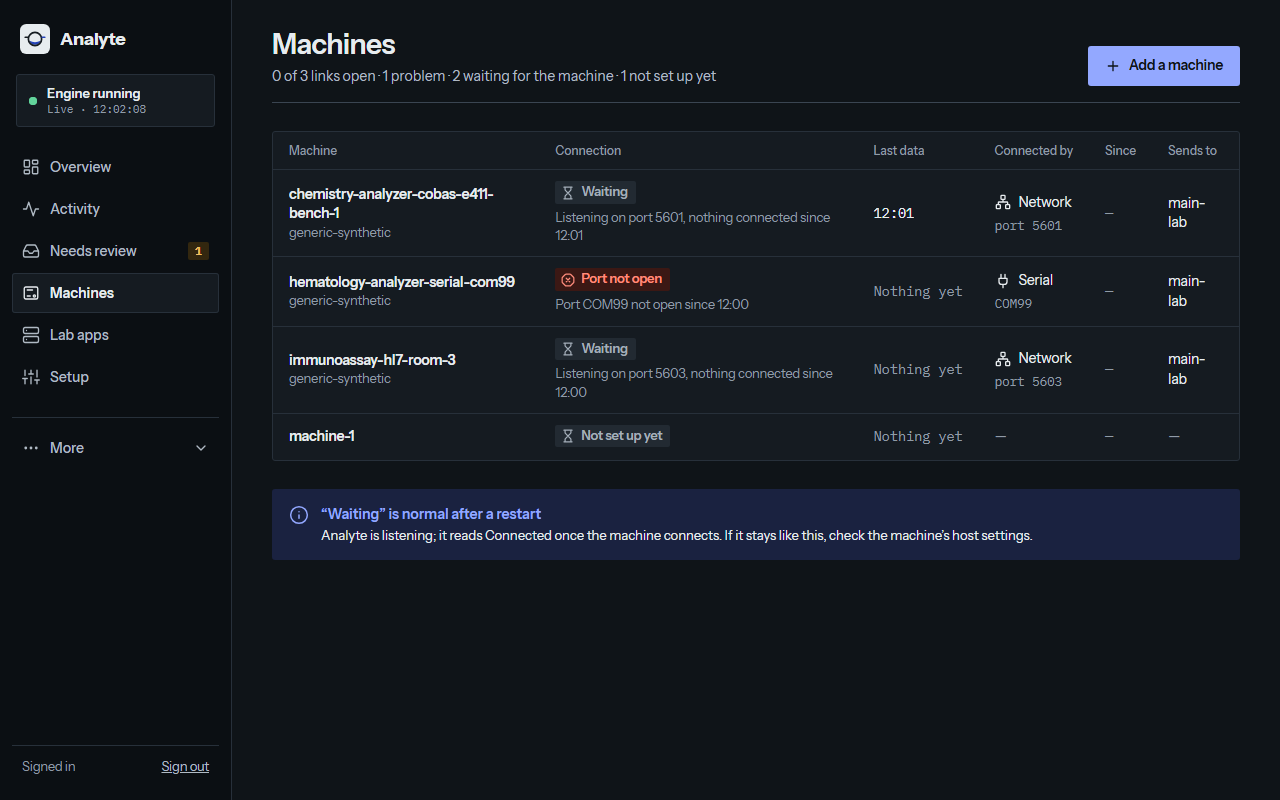
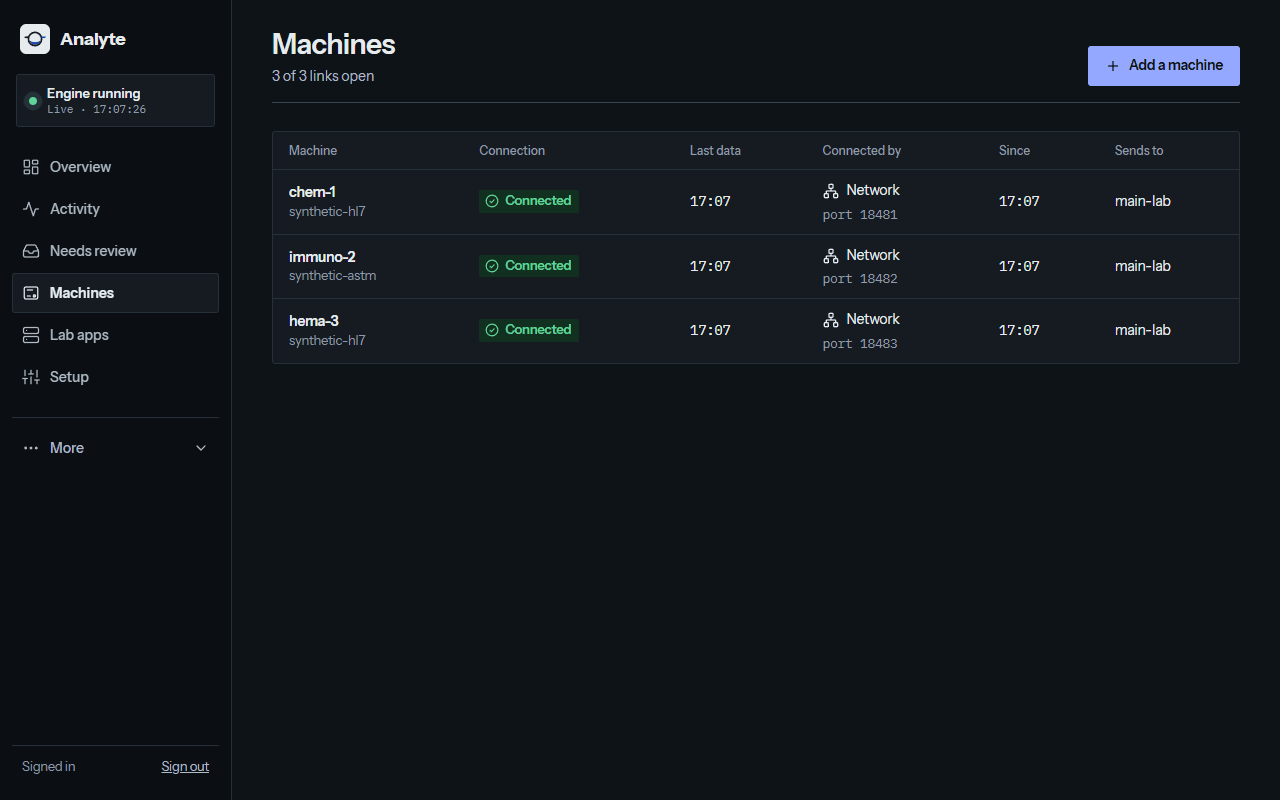
docs: shorten the README, add a demo GIF and healthy screenshots
The README goes from 299 to 180 lines. A 17-second GIF near the top shows
a synthetic result going from a machine through Analyte to the lab app,
then an unknown test code parked on Needs review. The six screenshots are
retaken with the reference receiver as the lab app, so results are
delivered and the Overview is green; the Deliveries page replaces the app
window picture.

Detail now lives in one place: the pre-change checks link to AGENTS.md,
the repository map to crates/README.md, and install steps to the
packaging guides. The tech stack now names all three unsafe Windows
modules (ADRs 0017, 0021 and 0022).

diff --git a/README.md b/README.md
@@ -4,44 +4,41 @@
 
 **Connect any lab analyzer to any lab app.**
 
-Analyte is a small program that runs on a PC in the lab, next to the
-analyzers. It talks to each machine in that machine's own protocol, stores
-every message safely, and passes results to a lab app over HTTPS in one common
-format. It also takes work orders from the lab app and hands them to the
-machines that ask for them or need them sent ahead.
+Analyte runs on a PC in the lab, next to the analyzers. It talks to each
+machine in that machine's own protocol, stores every message safely, and sends
+the results to a lab app over HTTPS in one common format. It also takes work
+orders from the lab app and hands them to the machines.
 
-> **Status:** every supported protocol is built and tested at the
-> *documented* level: from the official documents, with synthetic tests. No
-> machine has been qualified on real hardware yet. That comes with the first
-> lab pilot. See [the plan](docs/plan.md) for details.
+> **Status:** every protocol is built and tested from its official documents
+> with synthetic data (*documented* level). No machine has been tested on real
+> hardware yet; that comes with the first lab pilot ([the plan](docs/plan.md)).
+
+![A short tour of the Analyte admin pages: the Overview says all good, a synthetic machine sends a result, the Activity page shows it stored and delivered to the lab app, the Overview stays green, and a result with an unknown test code is parked on Needs review](docs/images/demo.gif)
+
+*A result goes from a machine, through Analyte, to the lab app (synthetic data).*
 
 ## What Analyte is, and is not
 
 | Analyte **is** | Analyte **is not** |
 | --- | --- |
 | A bridge: it receives, stores and delivers faithfully | A lab information system (LIS) |
-| One program for many machines, added with a config file | A rules engine: no auto-verification, reflex tests or QC decisions |
+| One program for many machines, each added with a config file | A rules engine: no auto-verification, reflex tests or QC decisions |
 | Independent of any one lab app: it speaks a published contract | A clinical interpreter: it never judges a result |
 
-Results it moves end up in patient reports, so it keeps a few promises that
-never bend ([ADR 0003](docs/adr/0003-clinical-safety-rules.md)):
+Results end up in patient reports, so a few promises never bend
+([ADR 0003](docs/adr/0003-clinical-safety-rules.md)):
 
-- **Store before acknowledging.** A machine hears "got it" only after the
-  data is safely on disk. If the disk is failing or nearly full, Analyte
-  refuses visibly.
-- **Never drop data.** Anything it cannot handle is parked with a reason for a
-  person to review. It is never deleted.
-- **Keep the original.** The exact bytes are kept, with the driver and config
-  version that read them. Reprocessing adds a new version and never
-  overwrites.
-- **Never invent.** No default sample IDs, no guessed units, values kept as
-  written (`<0.1` stays `<0.1`), and sample IDs keep their leading zeros.
-- **Never answer "no orders" on a failed lookup.** If the lab app cannot be
-  reached, a machine is told so, or told nothing. It never hears "no tests".
+- **Store before "got it".** A machine hears "got it" only once the data is
+  safe on disk. If the disk fails or is nearly full, Analyte refuses visibly.
+- **Never drop data.** What it cannot handle is parked for a person to review.
+- **Keep the original.** Reprocessing adds a new version; it never overwrites.
+- **Never invent.** No default sample IDs or guessed units; `<0.1` stays `<0.1`.
+- **Never answer "no orders" when unsure.** If the lab app cannot be reached,
+  the machine is told so, or told nothing.
 
 ## How it works
 
-Each machine connection passes through the same layers. Each layer does one
+Every machine connection passes through the same layers. Each layer does one
 job and can be replaced on its own ([ADR 0001](docs/adr/0001-rust-and-layered-architecture.md)).
 
 ```mermaid
@@ -59,177 +56,86 @@ flowchart LR
     ST -. "answers queries,<br/>sends work lists" .-> D
 ```
 
-- **Transport** moves bytes over a serial cable, a TCP connection or a watched
-  folder.
-- **Framing** finds where each message starts and ends and checks checksums.
-- **Dialog** is a state machine per connection. It knows who speaks next and
-  when time is up. It acknowledges only after the store says the data is
-  durable.
-- **Syntax** reads and writes the protocol's records. **Mapping** turns
-  machine codes into the common model, using only what the machine's config
-  says.
-- **Store, outbox and orders.** The store keeps everything. The outbox
-  delivers each result with the same delivery ID on every retry. Orders from
-  the lab app are cached and used to answer the machines.
-
-**Connections only go out** ([ADR 0004](docs/adr/0004-outbound-only-polled-orders.md)).
-The lab PC never opens an inbound internet port. Analyte posts results to the
-lab app and *polls* it for order changes. Analyzer connections stay on the
-lab network.
+The outbox sends each result with the same delivery ID on every retry, so the
+lab app never files it twice. **Connections only go out**
+([ADR 0004](docs/adr/0004-outbound-only-polled-orders.md)): Analyte posts
+results and polls the lab app for orders, so the lab PC opens no inbound port.
 
 ## The two programs on Windows
 
-| | Engine: `analyte.exe` | Analyte app: `analyte-app.exe` |
-| --- | --- | --- |
-| What it is | A Windows service that does all the work | A desktop window and a tray icon ([ADR 0019](docs/adr/0019-desktop-app.md)) |
-| When it runs | In the background, from boot, with nobody signed in | When someone signs in to Windows, if they chose it |
-| What it shows | Its admin pages, on `127.0.0.1` only | The engine's pages under its own title bar; the engine's state in the tray, with notifications when things get worse |
-| Sign-in | Admin key; Windows accounts through a local pipe | Signs people in with their Windows account ([ADR 0021](docs/adr/0021-windows-sign-in-pipe.md)), so the audit names them |
-| Never | Interprets results | Runs the engine, holds the admin key or shows another site |
+- **The engine** (`analyte.exe`): a Windows service that does all the work,
+  from boot. Its admin pages are on `127.0.0.1` only.
+- **The Analyte app** (`analyte-app.exe`): a window and tray icon on the
+  engine's pages, with notifications ([ADR 0019](docs/adr/0019-desktop-app.md)).
+  People sign in with Windows ([ADR 0021](docs/adr/0021-windows-sign-in-pipe.md)).
 
-**Installing.** The [Inno Setup](https://jrsoftware.org/isinfo.php)
-installer places both programs and registers the engine as the service
-`Analyte`, with automatic start and restart on failure. It creates the
-`Analyte users` group and shows the new admin key once. The same work can be
-done by hand with the PowerShell scripts in
-[`packaging/windows/`](packaging/windows/README.md): `install.ps1`,
-`stop.ps1` and `uninstall.ps1`. Start the service with `Start-Service Analyte`
-or the app's **Start engine** button. Uninstalling keeps data, configuration
-and backups.
-
-The admin pages also work in any browser at `http://127.0.0.1:<admin port>/`
-with the admin key. **Linux** runs the engine only, as a systemd service from
-the `.deb` or `.rpm` package ([packaging/linux](packaging/linux/README.md));
-there you use a browser.
+The installer sets up both ([Windows packaging](packaging/windows/README.md)).
+On Linux the engine is a systemd service ([Linux packaging](packaging/linux/README.md)).
 
 ## A look at it
 
-All data in these pictures is synthetic. The demo lab app's address is
-unreachable on purpose, so the screens show results being kept and retried.
+Synthetic data only. The lab app is the [reference receiver](crates/testing/receiver/),
+so results are delivered and the Overview is green.
 
 | | |
 | --- | --- |
-| ![The Analyte app window in dark mode, with its own title bar, showing the Overview](docs/images/app-window-dark.png) | ![The Overview page: two problems that need attention and the signal path from machines through Analyte to the lab app](docs/images/overview-light.png) |
-| **The Analyte app** (dark): the engine's Overview in its own window | **Overview**: what needs you, and the path from machines to lab app |
-| ![The Needs review page with one parked item: a test code missing from the machine's test mapping, with Process again and Mark resolved](docs/images/needs-review-light.png) | ![The Machines page in dark mode: three machines with their connection state, last data and lab app](docs/images/machines-dark.png) |
-| **Needs review**: parked items, with what to do next | **Machines** (dark): each connection, its last data and its lab app |
-| ![The Activity page: a live feed of stored messages and delivery attempts, sample IDs and counts only](docs/images/activity-light.png) | ![The Setup page: the machines on this PC and the supported machine models with their readiness](docs/images/setup-light.png) |
-| **Activity**: a live feed with sample IDs and counts only, never patient names or values | **Setup**: add a machine in four steps and pick its lab app |
-
-The pages are rendered on the server, follow the system's light or dark
-setting, and never show patient names or result values.
+| ![The Overview page saying All good: three connected machines, the signal path through Analyte, and the lab app up to date](docs/images/overview-light.png) | ![The Needs review page with parked items for a test code that is not in the machine's test mapping, each with Process again and Mark resolved](docs/images/needs-review-light.png) |
+| **Overview**: all good, and the path from machines to lab app | **Needs review**: parked items, with what to do next |
+| ![The Machines page in dark mode: three machines, all connected, with their last data and lab app](docs/images/machines-dark.png) | ![The Deliveries page in dark mode: each result with its sample ID, machine and lab app, all delivered](docs/images/deliveries-dark.png) |
+| **Machines** (dark): each connection and its last data | **Deliveries** (dark): every result delivered to the lab app |
+| ![The Activity page: a live feed of messages stored and results delivered, sample IDs and counts only](docs/images/activity-light.png) | ![The Setup page: the machines on this PC, all running, and the supported machine models with their readiness](docs/images/setup-light.png) |
+| **Activity**: a live feed with sample IDs and counts only | **Setup**: add a machine and pick its lab app |
 
 ## Protocols
 
-| Protocol family | Analyte's pieces (framing · dialog · syntax · mapping) | Machines that use it | Evidence |
-| --- | --- | --- | --- |
-| **ASTM**: CLSI LIS01-A2 (formerly ASTM E1381) + LIS02-A2 (formerly E1394) | `framing::astm` · `dialog::astm` · `analyte-astm` · `mapping::astm` | Roche cobas e 411, BioCARE Biolyte 2000 (both blocked); the synthetic ASTM example | documented |
-| **HL7 v2** (2.3.1 and 2.5.1) over **MLLP** | `framing::hl7` (MLLP) · `dialog::hl7` · `analyte-hl7` · `mapping::hl7` | YHLO iFlash 1200, Boule Swelab Lumi (both blocked) | documented |
-| **IHE LAW** (PaLM Rev 11.0), as Analyzer Manager | MLLP · `dialog::law` · `analyte-hl7` (`law`) · `mapping::law` | None yet | documented: Gazelle's validator passes all 8 messages Analyte sends; the simulator run did not reach *simulated* ([why](docs/conformance/gazelle/law-run/README.md)) |
-| **POCT1-A** (CLSI POCT01-A2), as Observation Reviewer | `framing::poct` · `dialog::poct` · `analyte-poct` (XML) · `mapping::poct` | None yet | documented |
-| **VIDAS PC Literal** (bioMérieux vendor format) | `framing::vidas` · `dialog::vidas` · `analyte-vidas` · `mapping::vidas` | bioMérieux VIDAS (blocked) | documented |
-| **Autolyser** (Dialab vendor format) | `framing::autolyser` · `dialog::autolyser` · `analyte-autolyser` · `mapping::autolyser` | Dialab Autolyser (blocked) | documented |
+| Protocol family | Machines that use it | Evidence |
+| --- | --- | --- |
+| **ASTM** (CLSI LIS01-A2 + LIS02-A2) | Roche cobas e 411, BioCARE Biolyte 2000 | documented |
+| **HL7 v2** (2.3.1 and 2.5.1) over **MLLP** | YHLO iFlash 1200, Boule Swelab Lumi | documented |
+| **IHE LAW** (PaLM Rev 11.0) | none yet | documented ([Gazelle run](docs/conformance/gazelle/law-run/README.md)) |
+| **POCT1-A** (CLSI POCT01-A2) | none yet | documented |
+| **VIDAS PC Literal** (bioMérieux) | bioMérieux VIDAS | documented |
+| **Autolyser** (Dialab) | Dialab Autolyser | documented |
 
-**Evidence levels** ([ADR 0005](docs/adr/0005-evidence-levels.md)) say how far
-each piece has been proven, and are never raised without proof:
+**Evidence levels** ([ADR 0005](docs/adr/0005-evidence-levels.md)): *proven*
+on the real machine, *simulated* against an official simulator or vendor
+traces, *documented* from the documents only; never raised without proof. The
+named machines are still blocked: their folders in [`machines/`](machines/README.md)
+list what is missing. Scope and checklists: [docs/protocols](docs/protocols/README.md).
 
-- **proven:** tested against the real machine, with recorded conversations;
-- **simulated:** tested against an official simulator or vendor sample traces;
-- **documented:** built from the documents only.
-
-"Blocked" means the machine's folder in [`machines/`](machines/README.md)
-lists the settings or recordings still missing, and nothing is guessed in the
-meantime. The setup page shows these models as *Not ready yet*. Each protocol's
-scope, decisions and checklist are in [docs/protocols](docs/protocols/README.md).
-
-### How they were built
-
-- **Standards first** ([ADR 0007](docs/adr/0007-standards-first.md)): each
-  standard is implemented from its official documents and tested on its own,
-  before any machine. A machine's quirks go in its config, never in the
-  standard's code.
-- **Config first** ([ADR 0002](docs/adr/0002-config-first.md)): a machine that
-  speaks a supported protocol is a config file, not new code.
-- **Recorded conversations** ([ADR 0009](docs/adr/0009-recording-format.md)):
-  bytes, direction and timing are the main test fixtures, replayed byte for
-  byte by a simulated machine.
-- **Property tests and fuzzing:** framers and parsers have property tests,
-  and the byte readers have fuzz targets that CI runs on Linux
-  ([fuzz](fuzz/README.md)).
-- **Traceable rules:** every protocol rule's test has a short behaviour name
-  and a comment naming its source section, for example `// HL7 2.5.1 §2.7`.
-  A CI script checks that every test named in a checklist exists.
+**How they were built:** each standard first, from its official documents
+([ADR 0007](docs/adr/0007-standards-first.md)), then each machine as a config
+file ([ADR 0002](docs/adr/0002-config-first.md)). Tests replay recorded
+conversations ([ADR 0009](docs/adr/0009-recording-format.md)) and name the
+source section of each rule; parsers also have property tests and
+[fuzz targets](fuzz/README.md).
 
 ## Connecting a lab app
 
-Any lab app, in any language, can receive from Analyte by implementing
+Any lab app can receive from Analyte by implementing
 [contract v1](docs/contract/v1.md) ([ADR 0008](docs/adr/0008-app-contract.md)):
-
-| Endpoint | Direction | What it carries |
-| --- | --- | --- |
-| `POST /results` | Analyte → app | One result delivery |
-| `POST /order-events` | Analyte → app | What happened to an order on the machine (sent, accepted, done, uncertain…) |
-| `GET /orders?cursor=…` | Analyte asks the app | Order changes since the last cursor ([how to build it](docs/contract/orders-cursor.md)) |
-
-- Every request carries a bearer API key. Each POST is signed with
-  [Standard Webhooks](https://www.standardwebhooks.com/) (HMAC-SHA256), with
-  key rotation.
-- Each delivery has a **delivery ID that stays the same on every retry**. The
-  app stores it with its effects before answering, and answers a repeat as a
-  duplicate.
-- The app's answer tells Analyte what to do next: done, retry later, fix the
-  setup, or park for review.
-
-Two tools help you check an integration:
-
-- **[`analyte-contract-check`](docs/contract/README.md#check-your-app)** runs
-  the published test vectors, including invalid cases, against your app's
-  real endpoints and prints PASS, FAIL or SKIP for each.
-- **The reference receiver** ([`crates/testing/receiver`](crates/testing/receiver/))
-  is a small app that implements the whole contract. Analyte's own tests run
-  against it, and it is a worked example to read.
+`POST /results`, `POST /order-events` and `GET /orders?cursor=…`, with an API
+key and [Standard Webhooks](https://www.standardwebhooks.com/) signatures.
+Check your app with [`analyte-contract-check`](docs/contract/README.md#check-your-app),
+or read the [reference receiver](crates/testing/receiver/), which does it all.
 
 ## Tech stack
 
-Versions come from the workspace [`Cargo.toml`](Cargo.toml) and
-[`rust-toolchain.toml`](rust-toolchain.toml).
-
-| Part | Uses | For |
-| --- | --- | --- |
-| Language | Rust 1.100.0 (pinned), edition 2024; minimum supported 1.95 | Everything; no `unsafe` code except two small Windows modules allowed by ADRs [0017](docs/adr/0017-windows-access-list-unsafe.md) and [0021](docs/adr/0021-windows-sign-in-pipe.md) |
-| Async runtime | Tokio | Network, timers and coordination; serial I/O and storage run on their own threads |
-| Admin pages | axum + Askama | Server-rendered HTML, one stylesheet and one small live-update script; no frontend framework; CSP `default-src 'self'` ([ADR 0018](docs/adr/0018-server-rendered-pages-and-one-stylesheet.md)) |
-| Store | SQLite via rusqlite (bundled) | Raw messages, results and revisions, the outbox, orders and the audit |
-| Outbound HTTPS | reqwest with rustls; hmac + sha2 | Delivering results, polling orders, signing requests |
-| Serial ports | serialport | RS-232 and USB serial adapters |
-| POCT XML | quick-xml | Reading POCT1-A messages, never resolving external entities |
-| Desktop app | Tauri 2 + WebView2 | The Windows window and tray |
-| Installer | Inno Setup 6 + Windows PowerShell 5.1 | Installing the service and the app |
-| Linux packages | nfpm | `.deb` and `.rpm` with a systemd unit |
-| Checks | proptest, cargo-fuzz, cargo-deny | Property tests, fuzzing, and license and advisory checks |
-
-## Repository map
-
-Crates are grouped by kind, and every crate of a kind has the same layout
-([ADR 0012](docs/adr/0012-uniform-layout-and-naming.md)). The full map, with
-one line per crate, is in [crates/README.md](crates/README.md).
-
-| Kind | Crates | Job |
-| --- | --- | --- |
-| program | [`analyte`](crates/analyte/), [`app`](crates/app/) | The engine; the Windows desktop app |
-| steps | [`transport`](crates/steps/transport/), [`framing`](crates/steps/framing/), [`dialog`](crates/steps/dialog/), [`mapping`](crates/steps/mapping/), [`sink`](crates/steps/sink/) | The layers every protocol passes through; `sink` delivers to lab apps |
-| protocols | [`astm`](crates/protocols/astm/), [`hl7`](crates/protocols/hl7/), [`poct`](crates/protocols/poct/), [`vidas`](crates/protocols/vidas/), [`autolyser`](crates/protocols/autolyser/) | The syntax of each protocol family (LAW lives in `hl7`) |
-| core | [`model`](crates/core/model/), [`store`](crates/core/store/), [`config`](crates/core/config/), [`contract`](crates/core/contract/) | The common model, durable storage, config loading, and the lab-app contract |
-| testing | [`receiver`](crates/testing/receiver/), [`contract-check`](crates/testing/contract-check/), [`sim`](crates/testing/sim/), [`fixtures`](crates/testing/fixtures/) | The reference receiver, the contract checker, recorded-conversation replay, and shared synthetic data |
-
-Elsewhere: [`machines/`](machines/README.md) holds machine definitions,
-[`docs/`](docs/) holds the plan, ADRs, protocol notes, contract and guides,
-and [`packaging/`](packaging/) holds the installers.
+- **Rust** 1.100.0 ([pinned](rust-toolchain.toml)), edition 2024, minimum 1.95.
+  No `unsafe` code except three small Windows modules, each allowed by an ADR:
+  access lists ([0017](docs/adr/0017-windows-access-list-unsafe.md)), the sign-in pipe
+  ([0021](docs/adr/0021-windows-sign-in-pipe.md)) and the app's title bar ([0022](docs/adr/0022-title-bar-snap-layouts-and-window-menu.md)).
+- **Tokio** for network and timers; **SQLite** (rusqlite) for the store.
+- **axum + Askama**: server-rendered admin pages, no frontend framework
+  ([ADR 0018](docs/adr/0018-server-rendered-pages-and-one-stylesheet.md)).
+- **reqwest + rustls**, **serialport**, **quick-xml** for HTTPS, RS-232, POCT1-A.
+- **Tauri 2 + WebView2** for the app; **Inno Setup 6** and **nfpm** to package.
+- **proptest, cargo-fuzz, cargo-deny** for tests, fuzzing, licences, advisories.
 
 ## Getting started
 
 You need the Rust toolchain ([rustup](https://rustup.rs/) installs the pinned
-version on first use). Python 3 and Bash are needed for the repository checks.
+version). Python 3 and Bash are needed for the repository checks.
 
 ```sh
 git clone https://github.com/vigani1/analyte.git
@@ -238,25 +144,9 @@ cargo build --workspace
 cargo test --workspace --all-features
 ```
 
-Before sending a change, run the full set of checks listed under
-[Verification in AGENTS.md](AGENTS.md#verification):
-
-```sh
-cargo fmt --check
-cargo clippy --all-targets --all-features -- -D warnings
-cargo test --workspace --all-features
-cargo deny check
-cargo check --manifest-path fuzz/Cargo.toml --bins
-cargo clippy -p analyte -p analyte-sink --all-targets --no-default-features -- -D warnings
-cargo test -p analyte -p analyte-sink --no-default-features
-bash scripts/check-layout.sh
-```
-
-**Run the engine with the sample config.** It is a synthetic HL7 machine
-listening on `127.0.0.1:5600`, delivering to a demo lab app that does not
-exist. Results are kept and retried. The two key variables can hold any
-synthetic values, and the signing key is `whsec_` plus base64 of 32 random
-bytes:
+**Run the sample:** a synthetic HL7 machine on `127.0.0.1:5600` whose demo
+lab app does not exist, so results are kept and retried. Any synthetic keys
+work; the signing key is `whsec_` plus base64 of 32 random bytes:
 
 ```sh
 cargo run -p analyte -- check-config crates/analyte/examples/analyte.toml
@@ -265,33 +155,24 @@ export ANALYTE_SECRET_DEMO_SIGNING="whsec_$(head -c 32 /dev/urandom | base64)"
 cargo run -p analyte -- run crates/analyte/examples/analyte.toml
 ```
 
-The sample keeps its store in `crates/analyte/data/`; delete that folder
-afterwards. It has no admin pages: add an `[admin]` section to try them
-([program guide](crates/analyte/DETAILS.md)).
-
-**Install on a lab PC:** follow [Install](docs/operations/install.md), then
-[Connect](docs/operations/connect.md) a machine. Daily use and recovery are in
-the [operations guides](docs/operations/README.md).
+Delete `crates/analyte/data/` afterwards. For admin pages add an `[admin]`
+section ([program guide](crates/analyte/DETAILS.md)). To install on a lab PC,
+see the [operations guides](docs/operations/README.md).
 
 ## Contributing
 
 Contributions are welcome. Start with [CONTRIBUTING.md](CONTRIBUTING.md) and
-the rules in [AGENTS.md](AGENTS.md), which apply to people and coding
-assistants alike.
+[AGENTS.md](AGENTS.md); the rules apply to people and coding assistants alike.
 
-- **Add a machine:** [adding a machine](docs/adding-a-machine.md). Usually a
-  config file, its README and recordings.
-- **Add a vendor protocol:** [adding a vendor protocol](docs/adding-a-vendor-protocol.md),
-  which shows where each piece lives.
-- **State the evidence level** of every driver and machine config, and never
-  raise it without the evidence: a real-machine recording, a simulator run or
-  vendor traces.
-- **Only synthetic or de-identified data.** Never commit patient data,
-  standards documents or vendor manuals, or text copied from them.
-- **Sign off every commit** (`git commit -s`) under the
-  [Developer Certificate of Origin](https://developercertificate.org/).
+- Before sending a change, run the checks in [Verification](AGENTS.md#verification).
+- Add a machine with [adding a machine](docs/adding-a-machine.md), or a
+  vendor protocol with [adding a vendor protocol](docs/adding-a-vendor-protocol.md).
+- Only synthetic or de-identified data; never standards or vendor manuals.
+- Sign off every commit (`git commit -s`, the
+  [Developer Certificate of Origin](https://developercertificate.org/)).
 
-Background: [the plan](docs/plan.md), [the decisions (ADRs)](docs/adr/README.md),
+Find your way around: [the crates](crates/README.md) (engine, app, layers,
+protocols, core, testing), [the decisions](docs/adr/README.md),
 [the glossary](docs/glossary.md) and [test quality](docs/testing/quality.md).
 
 ## Licence
